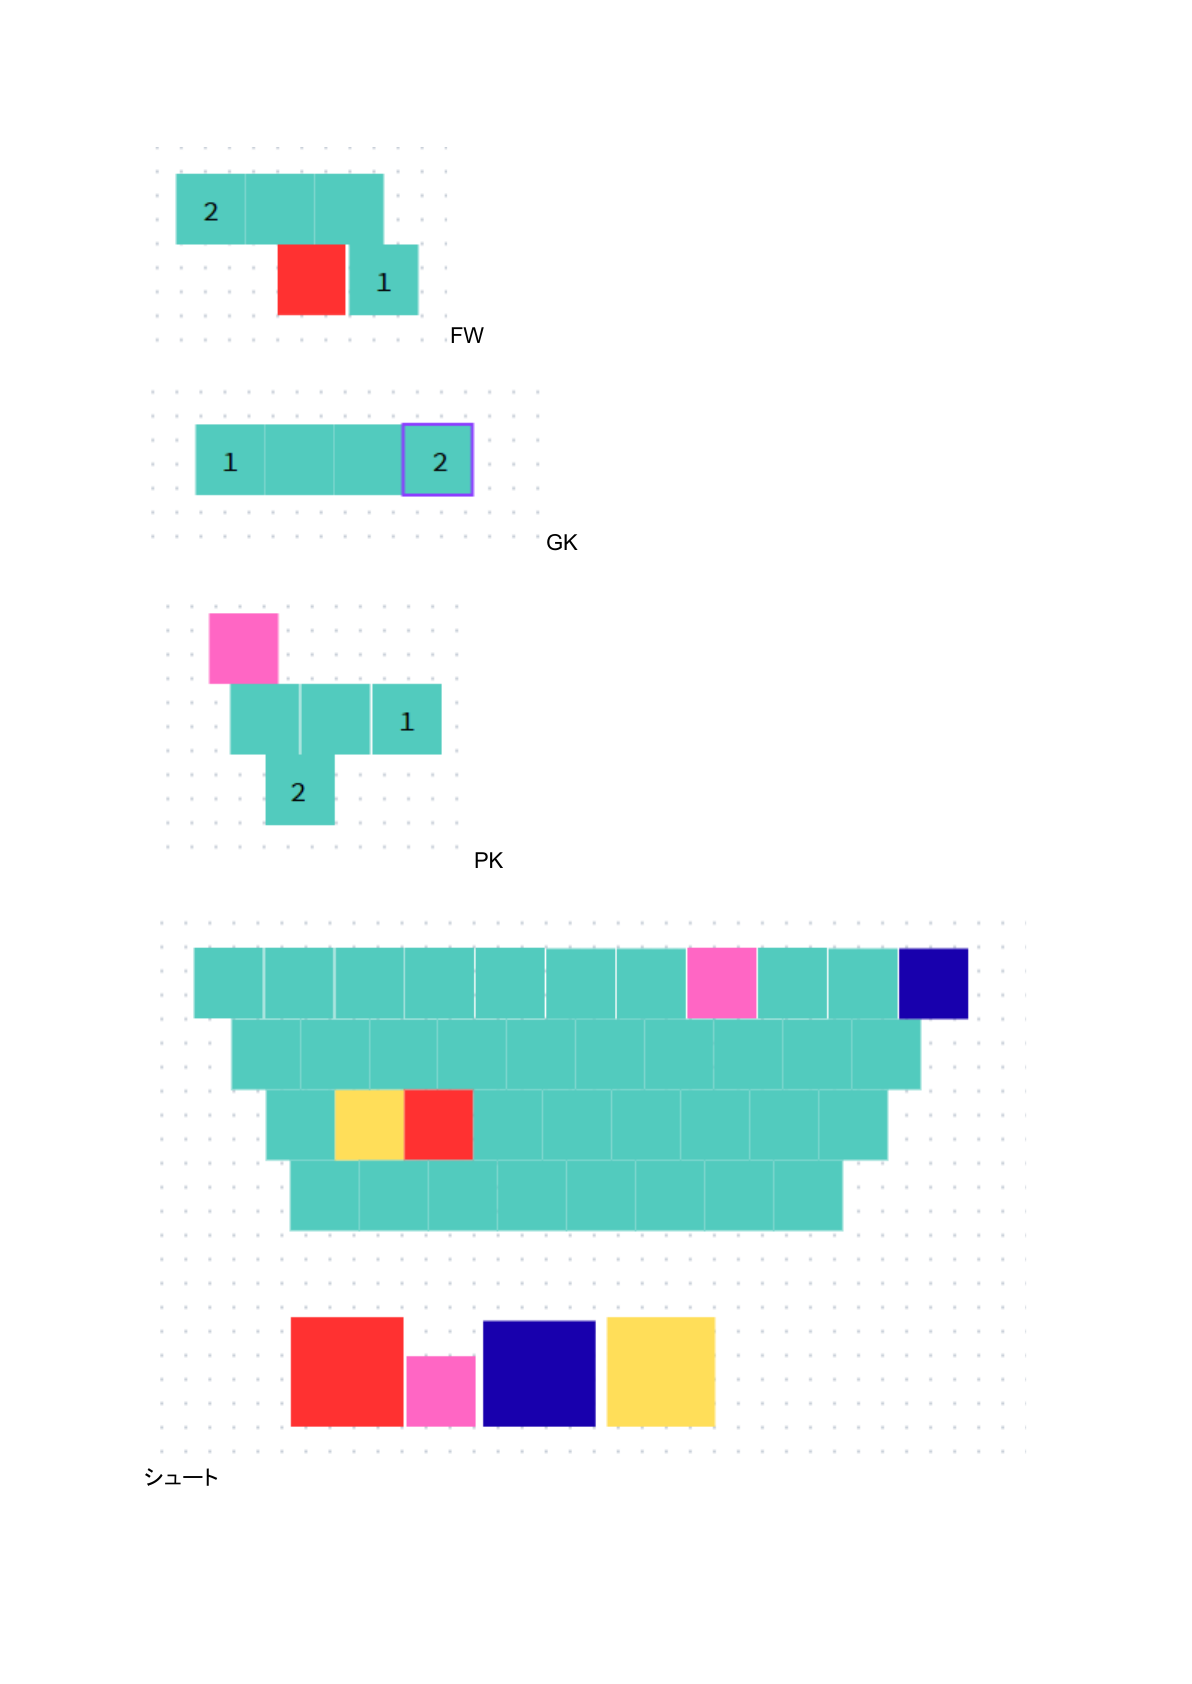
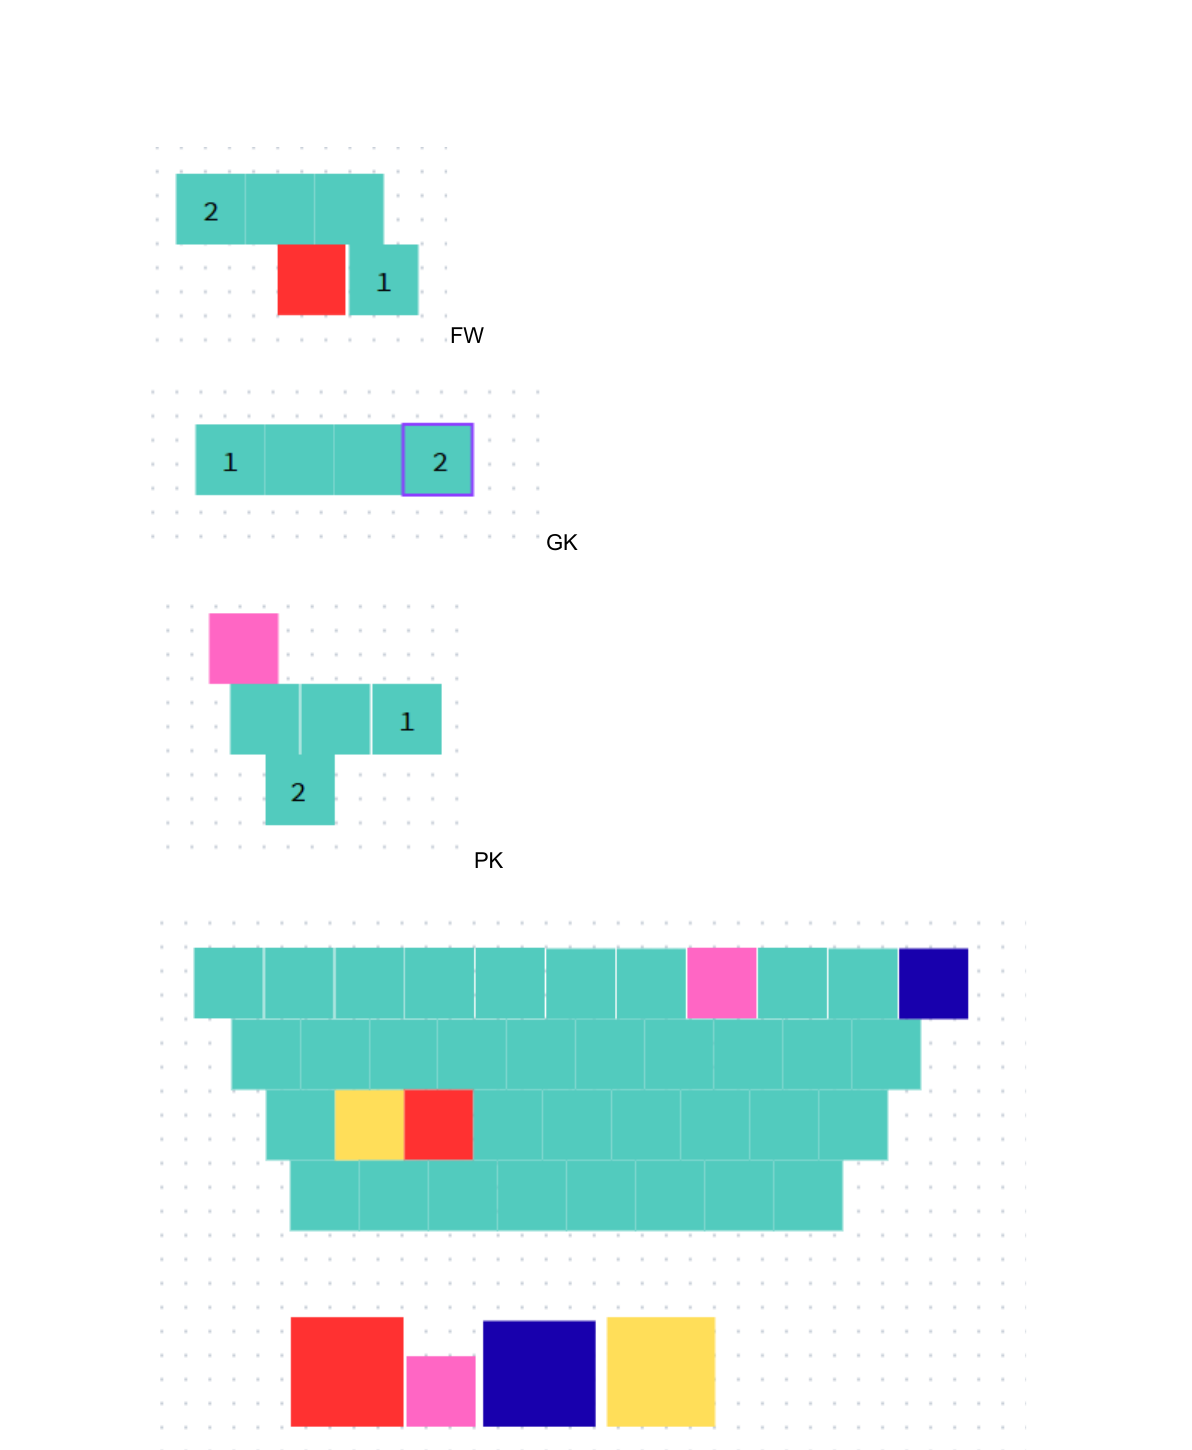
Polish mission clues and final battle hints

diff --git a/app-story.js b/app-story.js
@@ -605,7 +605,7 @@ const kaijuBattlePuzzles = [
     title: "第1問 キーボード暗号",
     body: "？に入る英単語は？　nazotoki → msxpyplo　／　？ → dpvvrt",
     acceptedAnswers: ["soccer", "サッカー", "さっかー"],
-    hint: "キーボードの画像を見せる。",
+    hint: "キーボードの配列を見て、左右に並ぶ文字を確認しよう。",
     explanation: "キーボードのアルファベットがすべて右にずれている暗号です。nazotoki を左へ1つずつ戻すと soccer になるため、答えは「soccer」です。",
     damage: 20,
     puzzleType: "kaiju-keyboard"
@@ -952,7 +952,7 @@ function renderMissions() {
       const card = el("article", `mission-card reveal ${unlocked ? "is-clear" : "is-locked-card"}`);
       card.style.setProperty("--accent", mission.accent);
       card.innerHTML = `
-        ${missionCharacterHtml(mission, unlocked, "mission-character", unlocked ? mission.heroName : "")}
+        ${unlocked ? `<a class="mission-character-link" href="#company/${mission.id}" aria-label="${escapeAttribute(mission.heroName)}のプロフィールを見る">${missionCharacterHtml(mission, true, "mission-character", mission.heroName)}</a>` : missionCharacterHtml(mission, false, "mission-character", "")}
         <div class="tag-row">
           <span class="tag status ${unlocked ? "clear" : inProgress ? "progress" : ""}">${statusLabel}</span>
           <span class="tag">${stars(mission.difficulty)}</span>
@@ -998,13 +998,13 @@ function renderMission(id) {
       ${missionDialogueHtml(step.dialogue)}
       ${puzzleHtml(step)}
       <p><strong>問題:</strong> ${escapeHtml(step.body)}</p>
+      ${stepIndex === 0 ? `<div class="mission-website-entry">${missionWebsiteLinkHtml(mission)}</div>` : ""}
       <form id="answer-form" data-id="${mission.id}">
         <label for="answer-input">ヒーロー解放コード</label>
         <input id="answer-input" name="answer" autocomplete="off" placeholder="答えを入力" />
         <div class="quiz-actions">
           <button class="button primary" type="submit" aria-label="回答する">回答する</button>
           ${hints.length ? `<button class="button ghost" type="button" data-action="hint" data-id="${mission.id}" aria-label="ヒントを見る">ヒントを見る</button>` : ""}
-          ${missionWebsiteLinkHtml(mission)}
         </div>
       </form>
       ${hints.length ? `<div class="hint-panel" id="hint-panel">${hintPanelHtml(step, hintCount)}</div>` : ""}
@@ -1277,9 +1277,6 @@ function finalWeakpointMobileHtml() {
         '<div class="final-mobile-parking is-parking"><b>P</b><span>駐車場</span></div>',
         '<div class="final-mobile-parking is-temporary"><b>P</b><span>臨時駐車場</span></div>',
       '</div>',
-      '<span class="final-mobile-down-arrow">↓</span>',
-      '<div class="final-mobile-fold-result"><strong>重ねると見える指示</strong><b>いちにもどり<br>ひらがなよめ</b></div>',
-      '<p class="final-mobile-return">第1問の迷路へ戻る</p>',
     '</div>'
   ].join("");
 }
@@ -1335,7 +1332,6 @@ function finalRpsVisualHtml() {
 function finalWeakpointVisualHtml() {
   const diagram = [
     '<svg class="final-figure-svg final-weakpoint-svg" viewBox="0 0 800 430" preserveAspectRatio="xMidYMid meet" role="img" aria-label="会場パンフレットの駐車場Pと臨時駐車場Pを重ねる手順を示す図">',
-      '<defs><marker id="final-fold-arrow" viewBox="0 0 12 12" markerWidth="12" markerHeight="12" refX="10" refY="6" orient="auto" markerUnits="userSpaceOnUse"><path d="M0,0 L12,6 L0,12z" fill="#e64036" /></marker></defs>',
       '<rect class="diagram-paper" x="18" y="18" width="764" height="394" rx="4" />',
       '<text class="weakpoint-title" x="52" y="62">会場パンフレットの2つのPを重ねる</text>',
       '<g class="fold-map">',
@@ -1345,10 +1341,6 @@ function finalWeakpointVisualHtml() {
         '<rect x="205" y="118" width="52" height="42" class="map-parking map-parking--temporary" /><text x="223" y="147">P</text>',
         '<text class="map-label" x="83" y="248">駐車場</text><text class="map-label" x="184" y="186">臨時駐車場</text>',
       '</g>',
-      '<path class="fold-arrow" d="M323 184H438M406 151l38 33-38 33" />',
-      '<g class="fold-result"><rect x="468" y="105" width="278" height="144" rx="5" /><text class="fold-result-title" x="500" y="146">重ねると見える指示</text><text class="fold-result-code" x="500" y="192">いちにもどり</text><text class="fold-result-code" x="500" y="222">ひらがなよめ</text></g>',
-      '<path class="fold-next-arrow" d="M604 270V352" marker-end="url(#final-fold-arrow)" />',
-      '<text class="fold-next-label" x="446" y="388">第1問の迷路へ戻る</text>',
     '</svg>'
   ].join("");
   return finalFigureHtml("final-weakpoint-figure", diagram, '<strong>Web版の補助図：</strong>パンフレットが手元にない場合も、Pを重ねて出た指示に従おう。第1問で<strong>経路以外のひらがな</strong>を読み、パンフレットの赤文字を確認する。', finalWeakpointMobileHtml());
@@ -1599,7 +1591,7 @@ function kaijuBattlePuzzleHtml(puzzle, index, status) {
         ? `<div class="kaiju-puzzle-visual equation">日本＝0　カナダ＝3　アメリカ＝2　メキシコ＝0<br /><strong>ジャパン＝？</strong></div>`
         : puzzle.puzzleType === "kaiju-banknote"
           ? `<div class="kaiju-puzzle-visual equation">■×5＝つ　■×10＝し　つ×2＝し</div>`
-          : `<img class="kaiju-field-image" src="assets/puzzles/kaiju-final-grid-pdf.png" width="1191" height="1684" alt="FW、GK、PK、シュートの図形パズル" />`;
+          : `<img class="kaiju-field-image" src="assets/puzzles/kaiju-final-grid-pdf.png" width="1192" height="1450" alt="FW、GK、PKの図形パズル" />`;
   return `
     <section class="battle-question">
       <p class="eyebrow dark">ATTACK CODE ${index + 1} / ${kaijuBattlePuzzles.length}</p>
@@ -1612,7 +1604,7 @@ function kaijuBattlePuzzleHtml(puzzle, index, status) {
         <button class="button primary" type="submit">攻撃する</button>
         <p class="answer-result" id="battle-answer-result"></p>
       </form>
-      ${puzzle.hint ? `<details class="battle-hint"><summary>ヒントを見る</summary><p>${escapeHtml(puzzle.hint)}</p></details>` : ""}
+      ${puzzle.hint ? `<details class="battle-hint"><summary>ヒントを見る</summary><p>${escapeHtml(puzzle.hint)}</p>${puzzle.puzzleType === "kaiju-keyboard" ? `<img class="kaiju-keyboard-hint" src="assets/puzzles/kaiju-keyboard-hint.svg" width="900" height="360" alt="アルファベットキーボードのQWERTY配列" />` : ""}</details>` : ""}
     </section>`;
 }
 
@@ -2172,13 +2164,13 @@ function heroCollectionHtml(mode = "full") {
       const unlocked = state.unlocked.has(mission.id);
       return `
         <article class="hero-slot ${unlocked ? "is-unlocked" : "is-locked"} ${state.recentUnlock === mission.id ? "is-new" : ""}" style="--accent:${mission.accent}">
-          <div class="hero-slot-visual">
+          ${unlocked ? `<a class="hero-slot-visual hero-slot-link" href="#company/${mission.id}" aria-label="${escapeAttribute(mission.heroName)}のプロフィールを見る">` : `<div class="hero-slot-visual">`}
             ${
               unlocked
                 ? characterSvg(mission.character, "hero-slot-character", mission.heroName)
                 : `${missionCharacterHtml(mission, false, "hero-slot-character", "")}<span class="hero-slot-lock">?</span>`
             }
-          </div>
+          ${unlocked ? `</a>` : `</div>`}
           <div class="hero-slot-body">
             <span class="tag status ${unlocked ? "clear" : ""}">${unlocked ? "仲間" : "未解放"}</span>
             <h3>${unlocked ? escapeHtml(mission.heroName) : "???"}</h3>
@@ -2433,21 +2425,17 @@ function puzzleHtml(step) {
           <figure><img src="assets/puzzles/morikawa-video-clue.png" width="1100" height="563" alt="赤い四角がある動画の手がかり画像" /></figure>
           <figure><img src="assets/puzzles/morikawa-circle-clue.png" width="1100" height="667" alt="青い丸と社訓の手がかり画像" /></figure>
         </div>
+        <div class="kanji-cross" aria-label="黄色い三角に入る共通の漢字を探す問題">
+          <span>出<span class="shape triangle yellow" aria-hidden="true"></span> → しゅっ〇〇</span>
+          <span><span class="shape triangle yellow" aria-hidden="true"></span>進 → 〇〇しん</span>
+          <span><span class="shape triangle yellow" aria-hidden="true"></span>見 → 〇〇けん</span>
+          <span><span class="shape triangle yellow" aria-hidden="true"></span>表 → 〇〇ぴょう</span>
+        </div>
         <div class="shape-expression" aria-label="赤い四角 の 青い丸 黄色い三角">
           <span class="shape square red"></span>
           <strong>の</strong>
           <span class="shape circle blue"></span>
           <span class="shape triangle yellow"></span>
-        </div>
-        <div class="seal-hints">
-          <p><span class="shape square red"></span> RECRUIT □OVIE</p>
-          <p><span class="shape circle blue"></span> 公式サイトの社訓から探せ</p>
-        </div>
-        <div class="kanji-cross" aria-label="黄色い三角に入る共通の漢字を探す問題">
-          <span>出△ → しゅっ〇〇</span>
-          <span>△進 → 〇〇しん</span>
-          <span>△見 → 〇〇けん</span>
-          <span>△表 → 〇〇ぴょう</span>
         </div>
       </div>
     `;

diff --git a/styles.css b/styles.css
@@ -1224,6 +1224,19 @@ img.mission-character {
   line-break: strict;
 }
 
+.mission-character-link,
+.hero-slot-link {
+  color: inherit;
+  text-decoration: none;
+  cursor: pointer;
+}
+
+.mission-character-link:focus-visible,
+.hero-slot-link:focus-visible {
+  outline: 3px solid var(--whistle);
+  outline-offset: 4px;
+}
+
 .quiz-box p,
 .company-profile p {
   overflow-wrap: break-word;
@@ -2035,11 +2048,21 @@ img.mission-character {
   grid-template-columns: repeat(2, minmax(0, 1fr));
 }
 
-.kanji-cross span {
+.kanji-cross > span {
   padding: 10px;
   background: #fffefa;
   border: 2px solid rgba(23, 48, 35, 0.74);
   font-weight: 950;
+}
+
+.kanji-cross .shape.triangle.yellow {
+  width: 0;
+  height: 0;
+  margin: 0 5px 0 2px;
+  border-right-width: 12px;
+  border-bottom-width: 21px;
+  border-left-width: 12px;
+  vertical-align: -3px;
 }
 
 .morikawa-seal-images {
@@ -5538,6 +5561,15 @@ img.mission-character {
 
 .battle-hint summary { cursor: pointer; }
 .battle-hint p { margin-top: 8px; }
+.kaiju-keyboard-hint { display: block; width: min(100%, 560px); height: auto; margin: 12px auto 2px; border: 2px solid #173023; border-radius: 10px; }
+
+.mission-website-entry {
+  margin: 18px 0 12px;
+}
+
+.mission-website-entry .button {
+  width: 100%;
+}
 
 .kaiju-puzzle-visual {
   display: grid;
